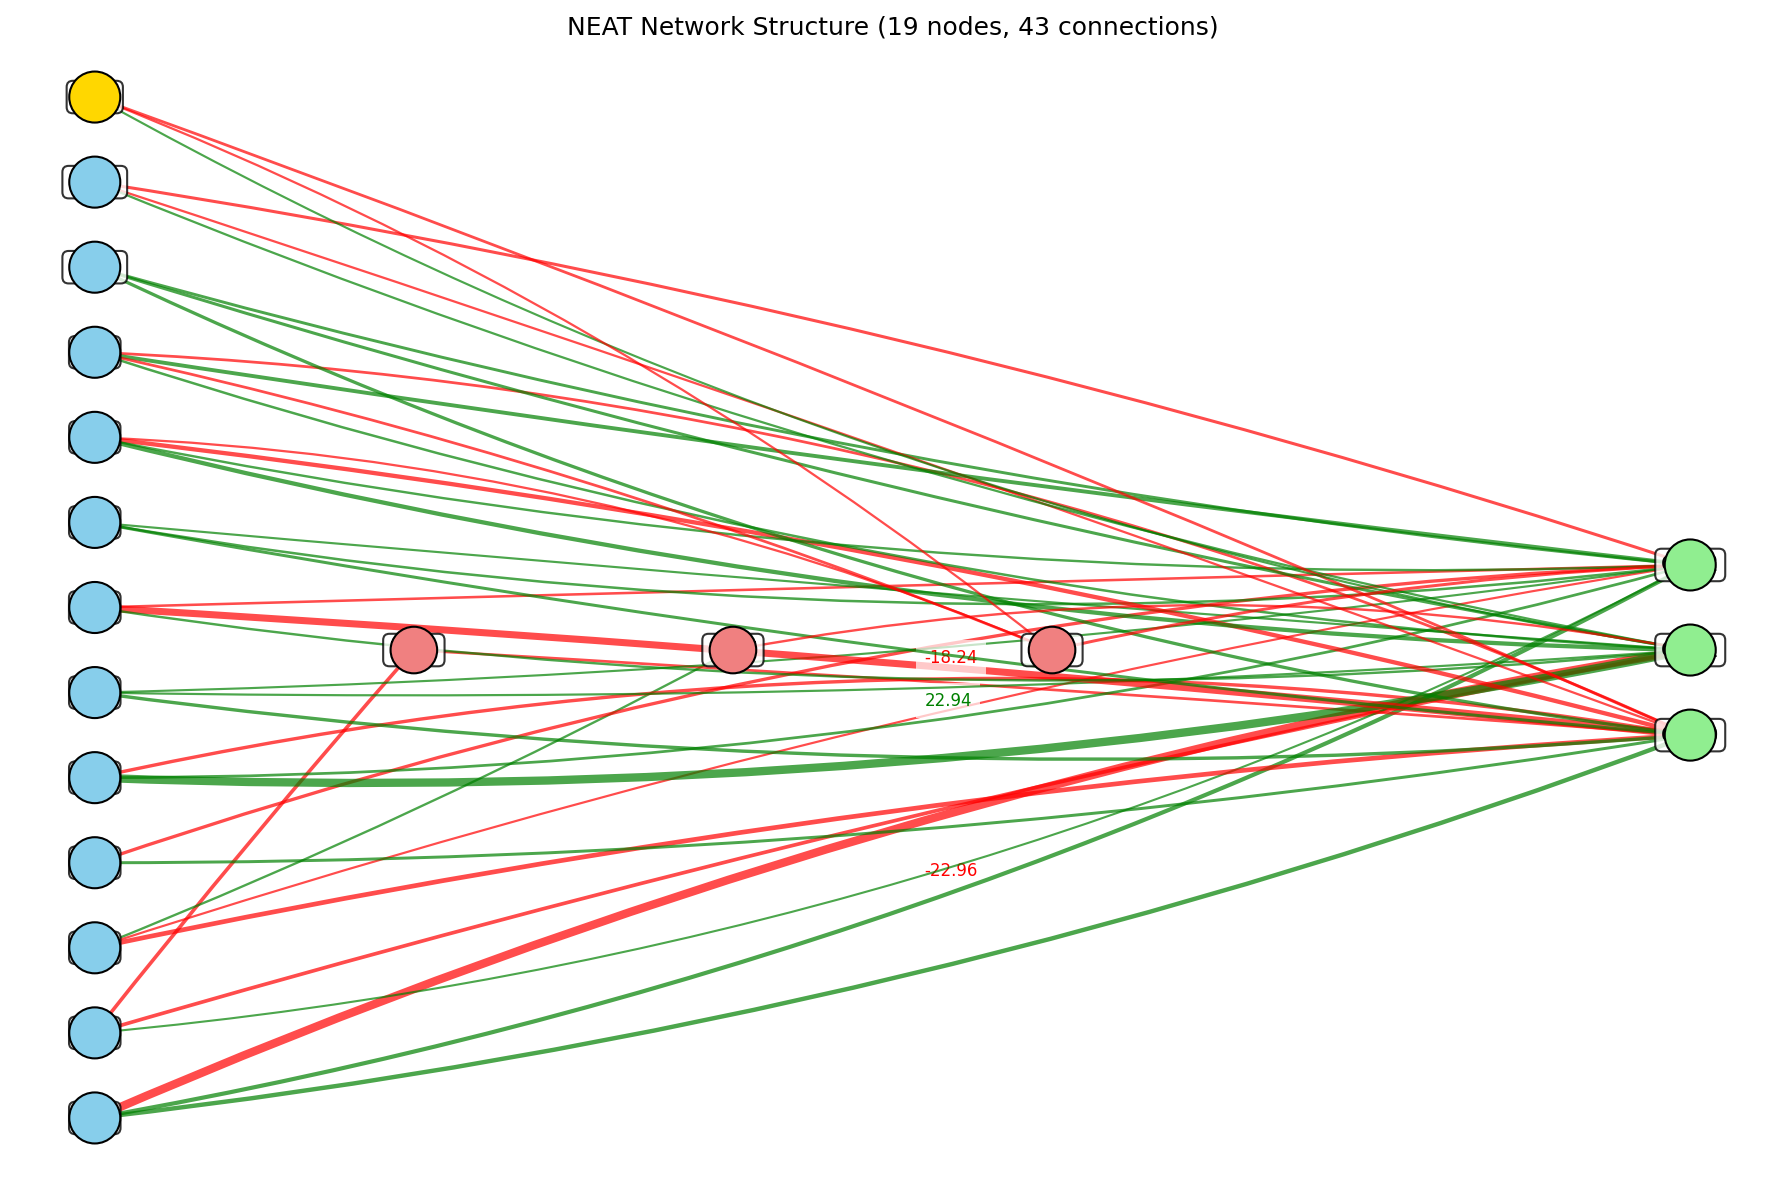
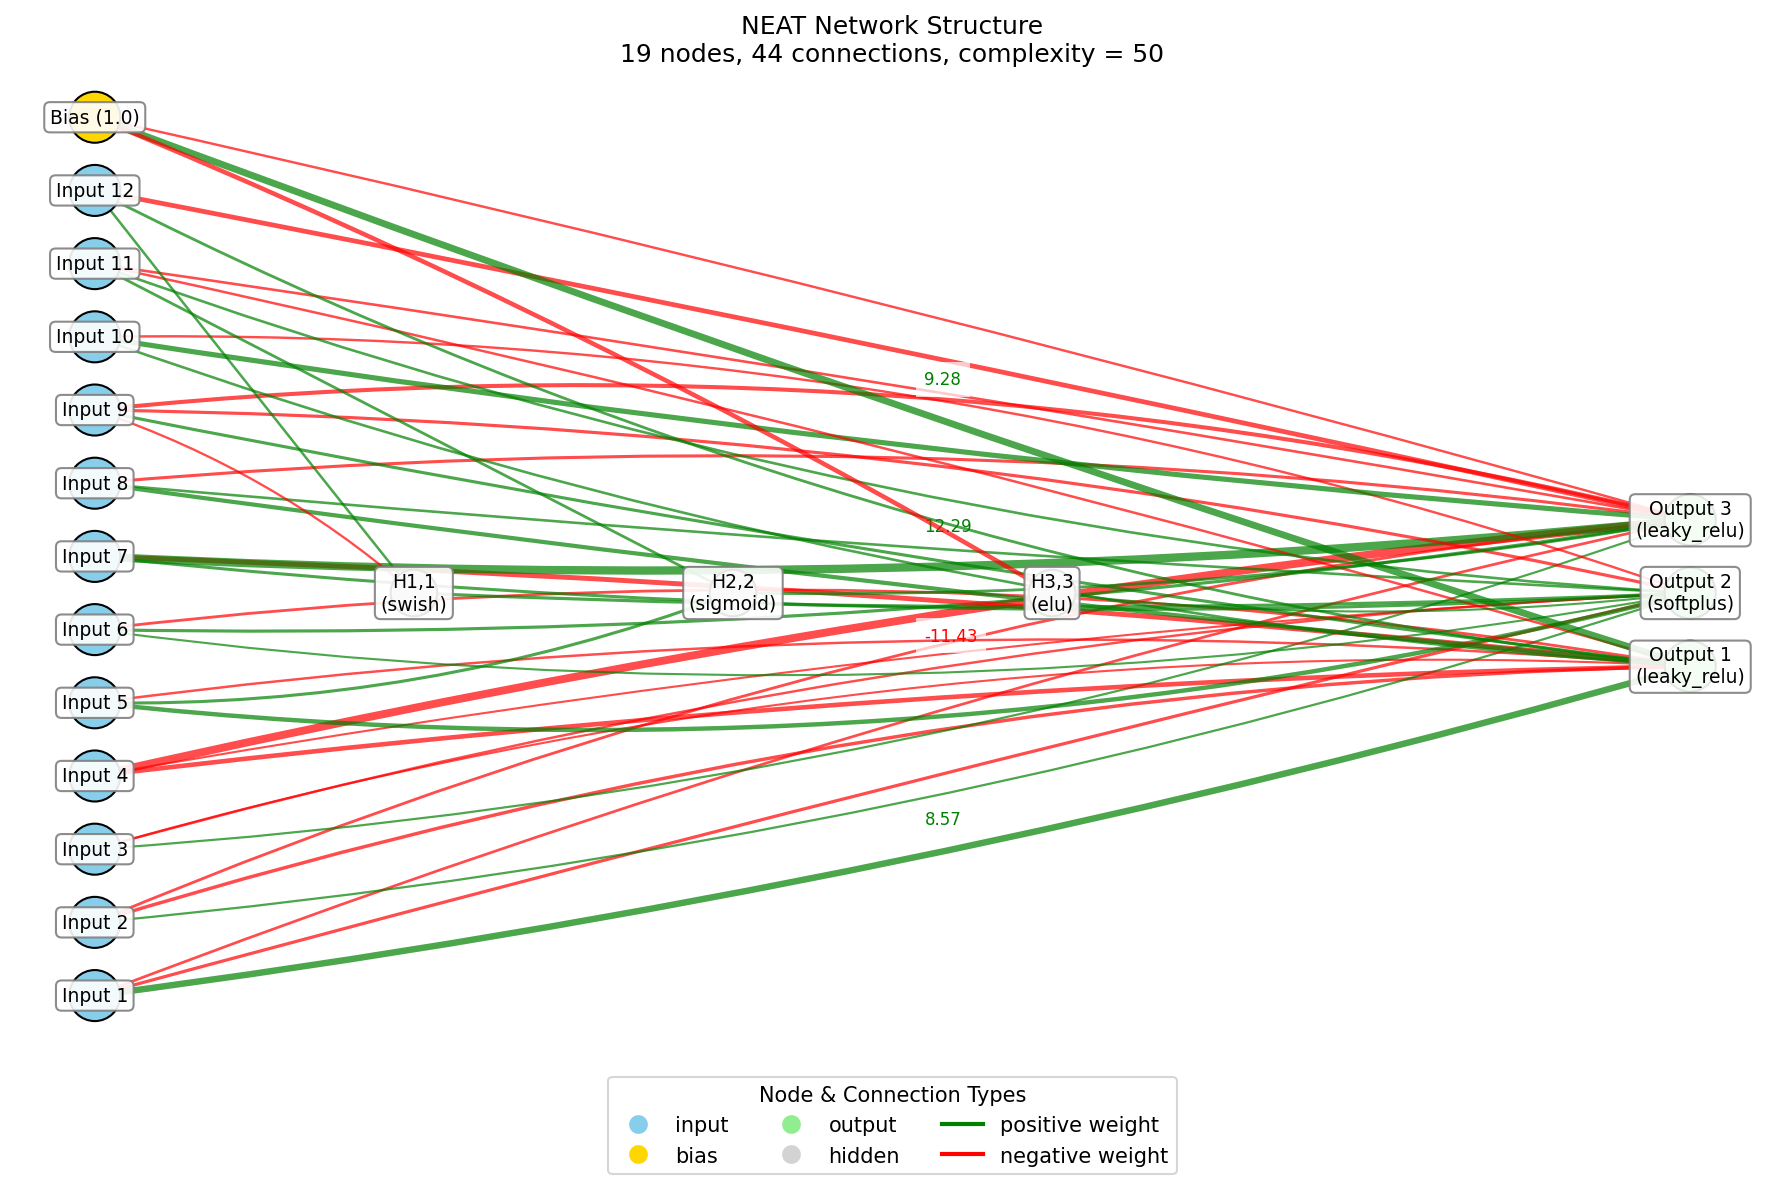
Update network image

diff --git a/examples/README_SLIMEVOLLEY_NEAT.md b/examples/README_SLIMEVOLLEY_NEAT.md
@@ -84,7 +84,7 @@ The agent typically improves from random movements to strategic gameplay over hu
 ### Neural Network Structure
 
 ![Example Network Structure](./slimevolley_neat_sample_resources/sample_network_1000_generations.png)
-*Example of an evolved neural network structure with the input nodes (blue), bias nodes (yellow), hidden nodes (red), and output nodes (green).*
+*Example of an evolved neural network structure with the input nodes (blue), bias node (yellow), hidden nodes (gray), and output nodes (green).*
 
 The evolved networks typically develop an efficient structure with:
 - Direct connections from key inputs to outputs
